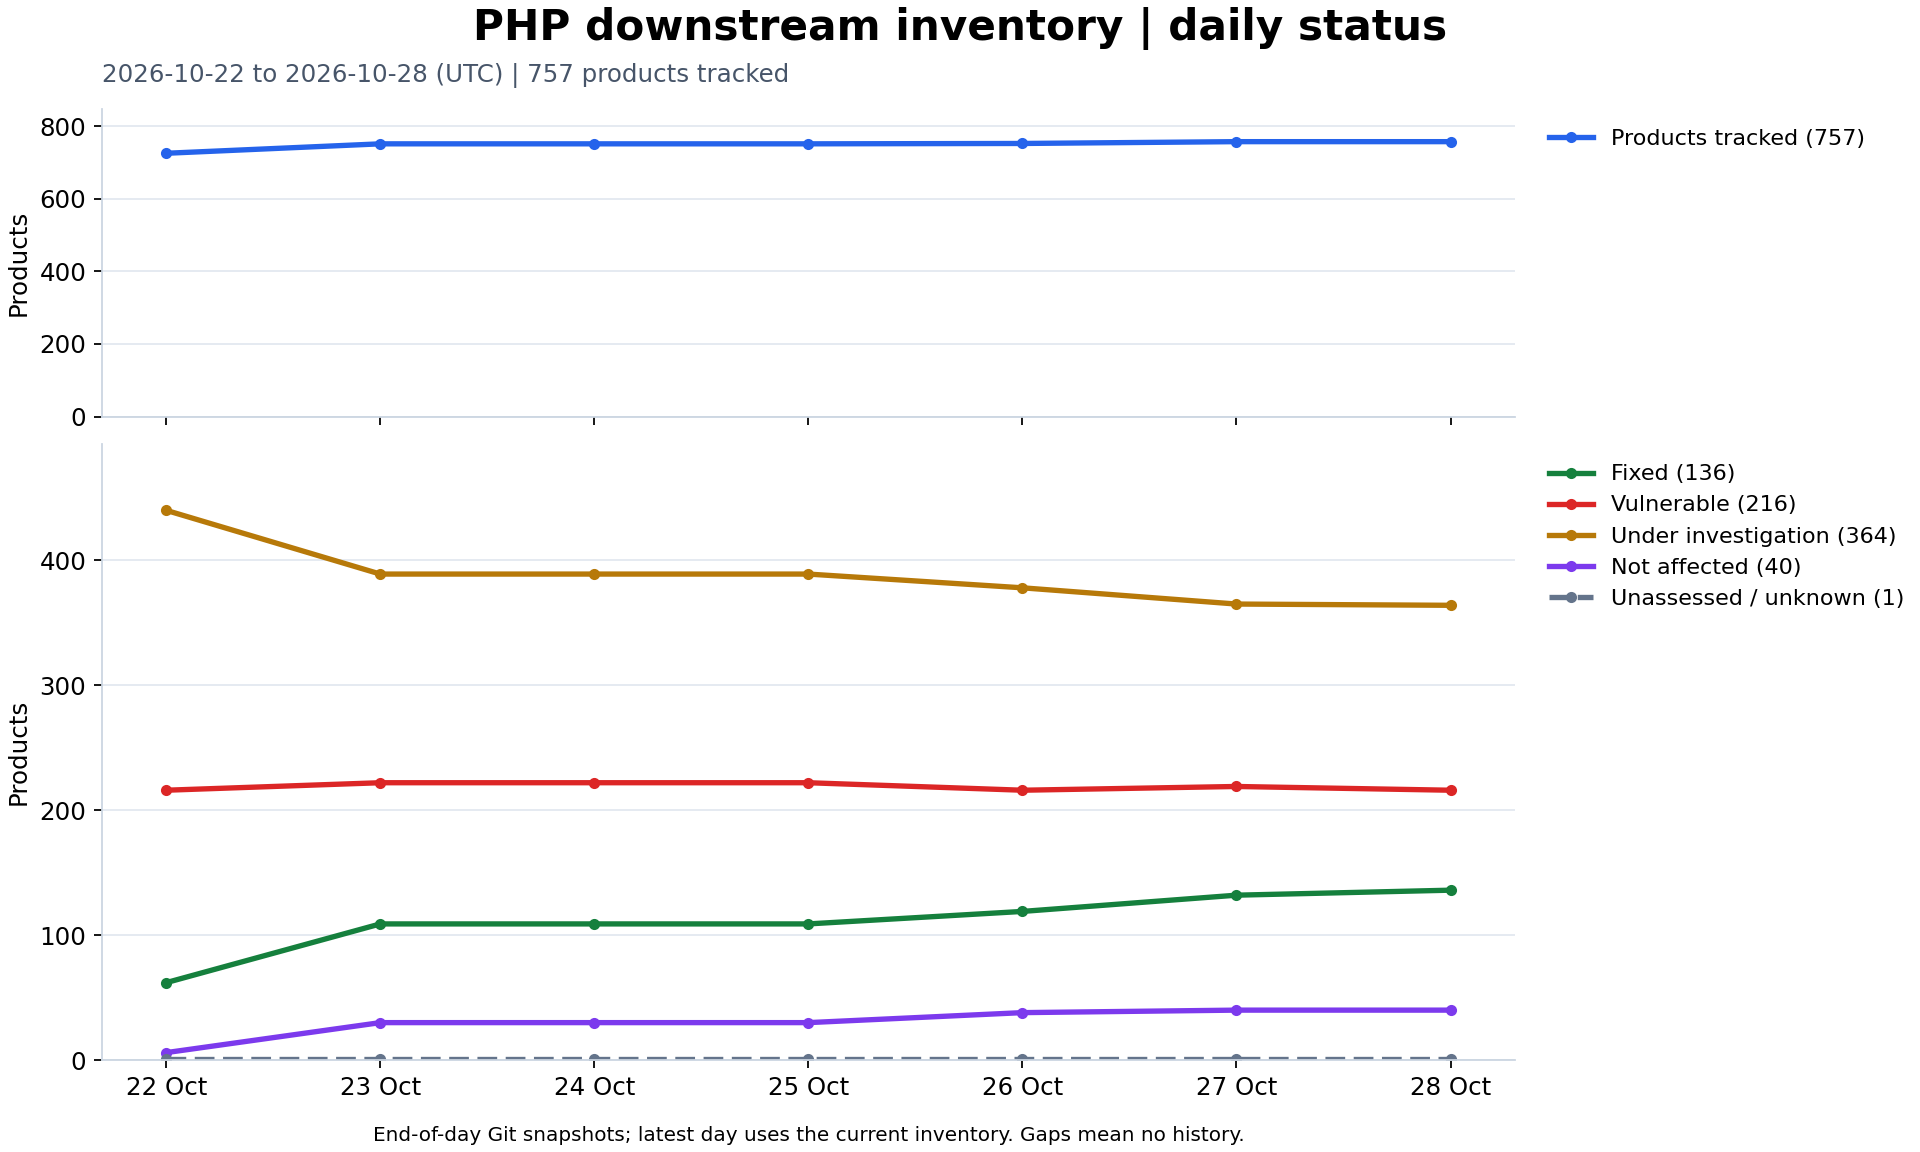
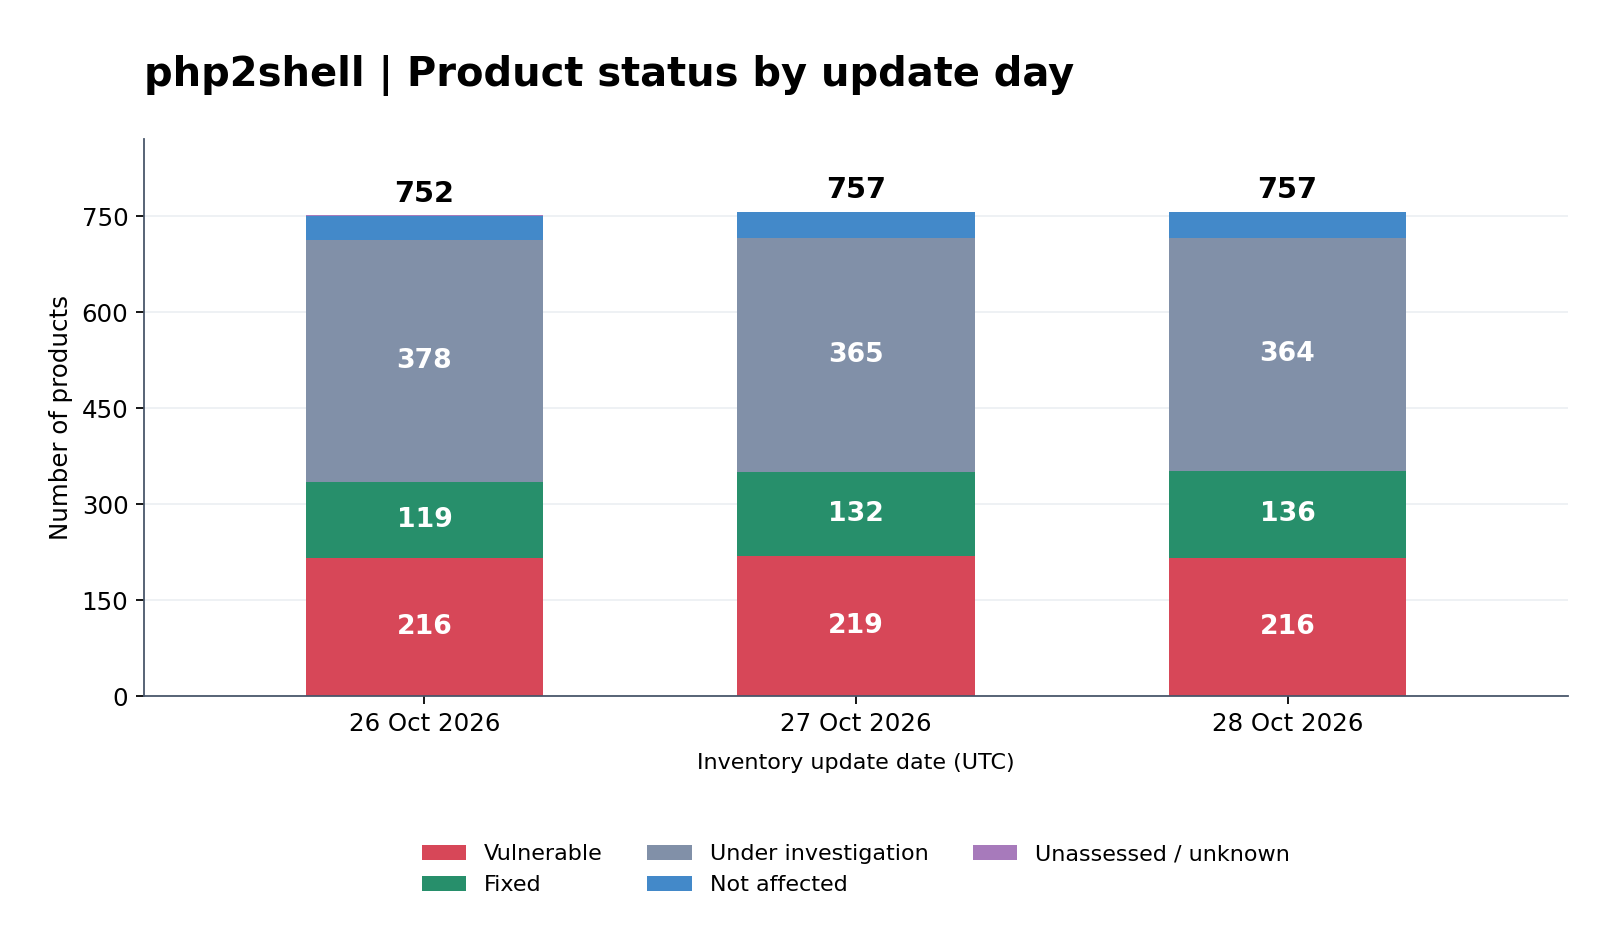
Show stacked status bars for the last three inventory update days

diff --git a/tools/generate_inventory_statistics.py b/tools/generate_inventory_statistics.py
@@ -1,5 +1,5 @@
 #!/usr/bin/env python3
-"""Generate README statistics and a daily PNG chart from SPDX and Git history."""
+"""Generate README statistics and stacked bars for recent SPDX update days."""
 
 from __future__ import annotations
 
@@ -8,7 +8,7 @@ import io
 import json
 import re
 import sys
-from datetime import date, datetime, timedelta, timezone
+from datetime import date, datetime, timezone
 from pathlib import Path
 from typing import Any
 
@@ -39,12 +39,11 @@ LABELS = {
     "unknown": "Unassessed / unknown",
 }
 COLORS = {
-    "tracked": "#2563eb",
-    "fixed": "#15803d",
-    "vulnerable": "#dc2626",
-    "investigation": "#b77909",
-    "not_affected": "#7c3aed",
-    "unknown": "#64748b",
+    "vulnerable": "#d74758",
+    "fixed": "#278f6b",
+    "investigation": "#8190a8",
+    "not_affected": "#4389c9",
+    "unknown": "#a77abb",
 }
 STATUS_KEYS = {
     "Fix": "fixed",
@@ -79,22 +78,15 @@ def count_inventory(document: dict[str, Any], cves: list[str]) -> dict[str, Any]
     return {"counts": counts, "by_cve": by_cve}
 
 
-def daily_snapshots(
+def update_day_snapshots(
     commits: list[tuple[str, date]], end_date: date, days: int
-) -> list[tuple[date, str | None]]:
-    """Select the last mainline snapshot available at each UTC day end.
-
-    Commits are in mainline order, not timestamp order: merged branches and
-    clock skew must not cause an older tree to replace a newer mainline tree.
-    No snapshot before the first observation means missing data, never zero.
-    """
-    start = end_date - timedelta(days=days - 1)
-    snapshots = []
-    for offset in range(days):
-        day = start + timedelta(days=offset)
-        eligible = [commit for commit, committed_on in commits if committed_on <= day]
-        snapshots.append((day, eligible[-1] if eligible else None))
-    return snapshots
+) -> list[tuple[date, str]]:
+    """Select the last mainline snapshot on each of the latest update dates."""
+    by_date = {}
+    for commit, committed_on in commits:
+        if committed_on <= end_date:
+            by_date[committed_on] = commit
+    return sorted(by_date.items())[-days:]
 
 
 def build_statistics(
@@ -117,24 +109,33 @@ def build_statistics(
     cves, _ = build_entry_map(document)
     current = count_inventory(document, cves)
     cache: dict[str, dict[str, Any]] = {}
+
+    def snapshot(commit: str) -> dict[str, Any]:
+        if commit not in cache:
+            cache[commit] = load_history_snapshot(git, repo_root, commit, SPDX_PATH)
+        return cache[commit]
+
+    eligible = [commit for commit, committed_on in commits if committed_on <= today]
+    pending = not eligible or document != snapshot(eligible[-1])
+    selected = update_day_snapshots(commits, today, days)
+    if pending:
+        # Local edits count as today's update, replacing any committed point today.
+        selected = [(day, commit) for day, commit in selected if day != today]
+        selected.append((today, "working-tree"))
+        selected = selected[-days:]
     daily = []
-    for day, commit in daily_snapshots(commits, today, days):
-        if day == today:
-            daily.append({"date": day.isoformat(), "source": "working-tree", **current})
-        elif commit:
-            if commit not in cache:
-                snapshot = load_history_snapshot(git, repo_root, commit, SPDX_PATH)
-                cache[commit] = count_inventory(snapshot, cves)
-            daily.append({"date": day.isoformat(), "source": commit, **cache[commit]})
-        else:
-            daily.append({"date": day.isoformat(), "source": None, "counts": None, "by_cve": None})
+    for day, commit in selected:
+        counts = current if commit == "working-tree" else count_inventory(snapshot(commit), cves)
+        daily.append({"date": day.isoformat(), "source": commit, **counts})
     return {
-        "schema_version": 1,
+        "schema_version": 2,
         "as_of_date": today.isoformat(),
         "timezone": "UTC",
         "history_ref": history_ref,
         "cves": cves,
         "days": days,
+        "day_selection": "inventory-updates",
+        "current": current,
         "daily": daily,
     }
 
@@ -152,43 +153,37 @@ def render_chart(statistics: dict[str, Any]) -> bytes:
         ) from exc
 
     daily = statistics["daily"]
-    current = daily[-1]["counts"]
     positions = list(range(len(daily)))
+    peak = max(row["counts"]["tracked"] for row in daily)
     with plt.rc_context({"font.family": "DejaVu Sans", "font.size": 11}):
-        fig, axes = plt.subplots(
-            2, 1, figsize=(12, 7.2), sharex=True,
-            gridspec_kw={"height_ratios": [1, 2]}, layout="constrained",
-        )
-        fig.suptitle("PHP downstream inventory | daily status", fontsize=19, fontweight="bold")
-        axes[0].set_title(
-            f"{daily[0]['date']} to {daily[-1]['date']} (UTC) | {current['tracked']:,} products tracked",
-            loc="left", fontsize=11, color="#475569", pad=12,
-        )
-        for key, label in LABELS.items():
-            axis = axes[0] if key == "tracked" else axes[1]
-            values = [row["counts"][key] if row["counts"] is not None else float("nan") for row in daily]
-            axis.plot(
-                positions, values, color=COLORS[key], linewidth=2.4, marker="o",
-                markersize=4, linestyle="--" if key == "unknown" else "-",
-                label=f"{label} ({current[key]:,})",
-            )
-        for axis in axes:
-            peak = max(
-                (value for line in axis.lines for value in line.get_ydata() if value == value),
-                default=0,
-            )
-            axis.set_ylim(0, max(1, peak * 1.12))
-            axis.yaxis.set_major_locator(MaxNLocator(integer=True, nbins=5))
-            axis.set_ylabel("Products")
-            axis.grid(axis="y", color="#e2e8f0")
-            axis.set_axisbelow(True)
-            axis.spines[["top", "right"]].set_visible(False)
-            axis.spines[["left", "bottom"]].set_color("#cbd5e1")
-            axis.legend(loc="upper left", bbox_to_anchor=(1.01, 1), frameon=False, fontsize=10)
-        step = max(1, (len(daily) + 9) // 10)
-        ticks = sorted(set([*positions[::step], positions[-1]]))
-        axes[1].set_xticks(ticks, [date.fromisoformat(daily[i]["date"]).strftime("%d %b") for i in ticks])
-        axes[1].set_xlabel("End-of-day Git snapshots; latest day uses the current inventory. Gaps mean no history.", labelpad=12, fontsize=9)
+        fig, axis = plt.subplots(figsize=(10, 5.8))
+        fig.subplots_adjust(left=0.09, right=0.98, top=0.85, bottom=0.25)
+        axis.set_title("php2shell | Product status by update day", loc="left", fontsize=18, fontweight="bold", pad=24)
+        bottoms = [0] * len(daily)
+        for key, color in COLORS.items():
+            values = [row["counts"][key] for row in daily]
+            bars = axis.bar(positions, values, bottom=bottoms, width=0.55, color=color, label=LABELS[key])
+            for bar, value, bottom in zip(bars, values, bottoms):
+                # Tiny segments stay in the stack without overlapping number labels.
+                if value and value >= peak * 0.055:
+                    axis.text(bar.get_x() + bar.get_width() / 2, bottom + value / 2,
+                              f"{value:,}", ha="center", va="center", color="white", fontweight="bold", fontsize=12)
+            bottoms = [bottom + value for bottom, value in zip(bottoms, values)]
+        for position, row in zip(positions, daily):
+            total = row["counts"]["tracked"]
+            axis.annotate(f"{total:,}", (position, total), xytext=(0, 6), textcoords="offset points",
+                          ha="center", fontweight="bold", fontsize=13)
+        axis.set_ylim(0, max(1, peak * 1.15))
+        axis.set_xlim(-0.65, len(daily) - 0.35)
+        axis.yaxis.set_major_locator(MaxNLocator(integer=True, nbins=8))
+        axis.set_ylabel("Number of products")
+        axis.set_xlabel("Inventory update date (UTC)", labelpad=8, fontsize=10)
+        axis.grid(axis="y", color="#edf0f3")
+        axis.set_axisbelow(True)
+        axis.spines[["top", "right"]].set_visible(False)
+        axis.spines[["left", "bottom"]].set_color("#475569")
+        axis.set_xticks(positions, [date.fromisoformat(row["date"]).strftime("%d %b %Y") for row in daily])
+        axis.legend(loc="upper center", bbox_to_anchor=(0.5, -0.23), ncol=3, frameon=False, fontsize=10)
         buffer = io.BytesIO()
         fig.savefig(buffer, format="png", dpi=160, facecolor="white", metadata={"Software": "php2shell inventory statistics"})
         plt.close(fig)
@@ -196,22 +191,15 @@ def render_chart(statistics: dict[str, Any]) -> bytes:
 
 
 def render_readme_section(statistics: dict[str, Any]) -> str:
-    current = statistics["daily"][-1]["counts"]
+    current = statistics["current"]["counts"]
     lines = [
         HEADING, "", BEGIN, "",
         f"Statistics as of **{statistics['as_of_date']} (UTC)**, from the current SPDX inventory.", "",
         "| Products tracked | Fixed | Vulnerable | Under investigation | Not affected | Unassessed / unknown |",
         "| ---: | ---: | ---: | ---: | ---: | ---: |",
         "| " + " | ".join(f"{current[key]:,}" for key in LABELS) + " |", "",
-        f"![Daily product counts and vulnerability status over the last {statistics['days']} days]({OUTPUT_DIR}/inventory-statistics.png)", "",
-        "Each product/component entry is counted once across " + ", ".join(statistics["cves"]) + ". "
-        "Vulnerable takes priority, followed by under investigation, then missing/unknown assessments. "
-        "Fixed means every tracked CVE is fixed or not affected, with at least one fix; "
-        "not affected means all tracked CVEs are not affected. "
-        "A fix refers to the listed version scope, not every deployed version.", "",
-        "The chart uses the last mainline SPDX snapshot per UTC day and carries counts forward on days without changes. "
-        "The latest day includes local inventory changes; dates before available history have no counts.", "",
-        f"[Daily counts and per-CVE statistics (JSON)]({OUTPUT_DIR}/inventory-statistics.json) "
+        f"![Product status on the last {len(statistics['daily'])} inventory update days]({OUTPUT_DIR}/inventory-statistics.png)", "",
+        f"[Counts by update day and per-CVE statistics (JSON)]({OUTPUT_DIR}/inventory-statistics.json) "
         "| [Software list](software/software_list.md)", "", END,
     ]
     return "\n".join(lines)
@@ -232,7 +220,7 @@ def update_readme(text: str, statistics: dict[str, Any]) -> str:
             raise GenerationError(f"README is missing expected heading: {marker}")
         text = text.replace(marker, section + "\n\n" + marker, 1)
 
-    counts = statistics["daily"][-1]["counts"]
+    counts = statistics["current"]["counts"]
     summary = (
         f"{SUMMARY_BEGIN}\n"
         f"This repository tracks **{counts['tracked']:,} products**, including "
@@ -259,7 +247,7 @@ def positive_days(value: str) -> int:
 
 def main(argv: list[str] | None = None) -> int:
     parser = argparse.ArgumentParser(description=__doc__)
-    parser.add_argument("--days", type=positive_days, default=7, help="Calendar days including today (default: 7).")
+    parser.add_argument("--days", type=positive_days, default=3, help="Most recent inventory update dates (default: 3).")
     parser.add_argument("--history-ref", default="HEAD", help="Mainline Git revision; use origin/main on PR branches.")
     args = parser.parse_args(argv)
     try:
@@ -279,7 +267,7 @@ def main(argv: list[str] | None = None) -> int:
     except (GenerationError, OSError, ValueError) as exc:
         print(f"error: {exc}", file=sys.stderr)
         return 1
-    print(f"Updated README statistics and {OUTPUT_DIR}: {statistics['daily'][-1]['counts']['tracked']} products, {args.days} days.")
+    print(f"Updated README statistics and {OUTPUT_DIR}: {statistics['current']['counts']['tracked']} products, {len(statistics['daily'])} update days.")
     return 0
 
 

diff --git a/tools/README.md b/tools/README.md
@@ -63,8 +63,10 @@ Updates the generated statistics section in the root `README.md` and writes
 `software/statistics/inventory-statistics.png` and `inventory-statistics.json`.
 It also refreshes the one-sentence tracked/vulnerable/fixed summary directly under
 `## Current status`.
-The default chart covers seven calendar days, including today. The JSON includes
-daily totals and separate counts for each tracked CVE.
+The default chart shows stacked bars for the three most recent UTC dates with
+inventory updates, with totals above the bars and counts inside larger segments.
+The JSON includes current totals, counts by update date, and separate counts for
+each tracked CVE.
 
 Use Python 3.10 or newer, Git with full history, and Matplotlib. Install the plotting
 dependency in a virtual environment (the other generators still use only the
@@ -88,17 +90,25 @@ Shallow clones fail explicitly rather than silently publishing incomplete trends
 python tools/build_spdx_inventory.py
 python -m json.tool software/spdx/PHP_Downstream_Inventory.spdx3.json
 python tools/generate_software_list_from_spdx3.py PHP_Downstream_Inventory.spdx3.json -o software --update-history --update-readme
-python tools/generate_inventory_statistics.py --days 7
+python tools/generate_inventory_statistics.py --days 3
 ```
 
 On a PR branch, add `--history-ref origin/main` to **both** generators after
 fetching and merging the latest mainline. Statistics use the last compiled SPDX
 snapshot in first-parent history per UTC day, dated by the commit's committer time
-(so merged updates appear when they reach mainline). Days without changes retain
-the previous counts. Days before the first available snapshot are missing, not
-zero. Today's point always comes from the local compiled inventory, including
-uncommitted edits. All days are assessed against the current inventory's CVE set;
-missing historical assessments count as unknown.
+(so merged updates appear when they reach mainline). `--days N` selects the last N
+distinct dates that changed the compiled inventory, skipping days without updates
+even when the selected dates are more than N calendar days apart. Multiple updates
+on one day produce one bar using that day's last snapshot. If fewer dates exist,
+only the available dates are shown.
+
+Local inventory changes compared with the latest mainline snapshot count as an
+update today, replacing today's committed bar or adding a new one. A periodic run
+without inventory changes does not add a bar. The README totals and summary always
+use the current local inventory. All historical dates are assessed against the
+current inventory's CVE set; missing assessments count as unknown. JSON schema
+version 2 stores current totals in `current` and the selected update dates in
+`daily`; `days` is the requested number of update dates, not a calendar window.
 
 Each unique SPDX package ID counts as one product/component entry, matching the
 software list. Overall categories are mutually exclusive: any `Vulnerable` status

diff --git a/README.md b/README.md
@@ -58,13 +58,9 @@ Statistics as of **2026-10-28 (UTC)**, from the current SPDX inventory.
 | ---: | ---: | ---: | ---: | ---: | ---: |
 | 757 | 136 | 216 | 364 | 40 | 1 |
 
-![Daily product counts and vulnerability status over the last 7 days](software/statistics/inventory-statistics.png)
+![Product status on the last 3 inventory update days](software/statistics/inventory-statistics.png)
 
-Each product/component entry is counted once across CVE-2026-109618, CVE-2026-109619. Vulnerable takes priority, followed by under investigation, then missing/unknown assessments. Fixed means every tracked CVE is fixed or not affected, with at least one fix; not affected means all tracked CVEs are not affected. A fix refers to the listed version scope, not every deployed version.
-
-The chart uses the last mainline SPDX snapshot per UTC day and carries counts forward on days without changes. The latest day includes local inventory changes; dates before available history have no counts.
-
-[Daily counts and per-CVE statistics (JSON)](software/statistics/inventory-statistics.json) | [Software list](software/software_list.md)
+[Counts by update day and per-CVE statistics (JSON)](software/statistics/inventory-statistics.json) | [Software list](software/software_list.md)
 
 <!-- inventory-statistics:end -->
 

diff --git a/software/spdx/README.md b/software/spdx/README.md
@@ -13,7 +13,7 @@ directories, including nested directories, is discovered automatically. Adding a
 source file requires no registration or manifest. Keep non-source JSON files outside these
 directories because every JSON file inside them is an input.
 
-The statistics step refreshes the root README totals and the daily PNG/JSON in
+The statistics step refreshes the root README totals and the stacked PNG chart and JSON in
 `software/statistics/`. It requires Matplotlib and full Git history; see the
 [statistics tooling instructions](../../tools/README.md#generate_inventory_statisticspy).
 
